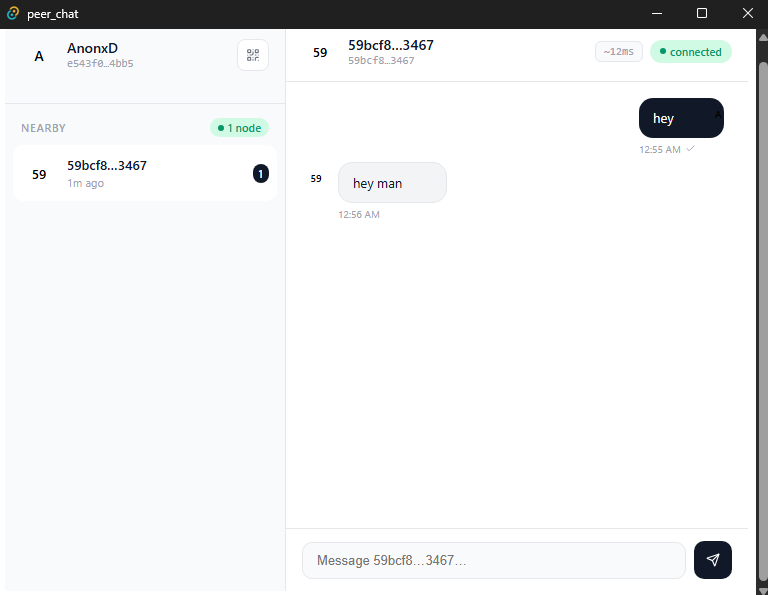
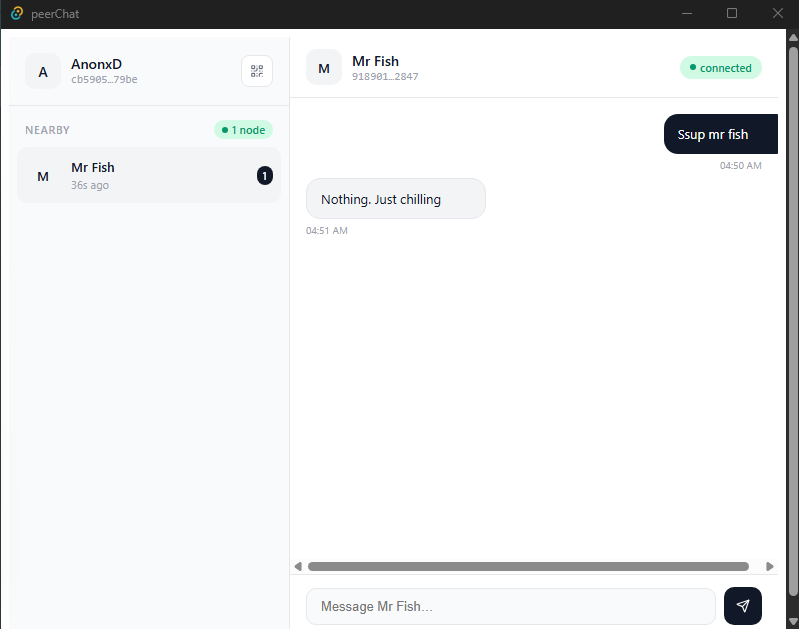
fix: update Dashboard component to use Node type for selectedNode and improve message handling

diff --git a/src/components/Dashboard.tsx b/src/components/Dashboard.tsx
@@ -2,14 +2,15 @@ import { useState, useRef, useEffect } from "react";
 import {
   Send,
   QrCode,
-  Check,
-  CheckCheck,
+  // Check,
+  // CheckCheck,
   Menu,
   ArrowLeft,
   X,
 } from "lucide-react";
 import { useP2P } from "../hooks/useP2P";
 import { QRModal } from "./QRModal";
+import { Node } from "../types";
 
 function formatSeen(seconds: number): {
   label: string;
@@ -41,7 +42,7 @@ function truncate(id: string) {
 export function Dashboard() {
   const { identity, nodes, messages, sendMessage, getNodeId } = useP2P();
 
-  const [selectedNode, setSelectedNode] = useState<string | null>(null);
+  const [selectedNode, setSelectedNode] = useState<Node | null>(null);
   const [messageInput, setMessageInput] = useState("");
   const [searchTerm] = useState("");
   const [showQR, setShowQR] = useState(false);
@@ -95,7 +96,7 @@ export function Dashboard() {
 
   const handleSend = async () => {
     if (!messageInput.trim() || !selectedNode) return;
-    await sendMessage(messageInput.trim(), selectedNode, nodeId);
+    await sendMessage(messageInput.trim(), selectedNode.endpoint_id, nodeId);
     setMessageInput("");
   };
 
@@ -112,14 +113,14 @@ export function Dashboard() {
 
   const chatMessages = messages.filter(
     (m) =>
-      (m.from === selectedNode && m.to === nodeId) ||
-      (m.to === selectedNode && m.from === nodeId),
+      (m.from === selectedNode?.endpoint_id && m.to === nodeId) ||
+      (m.to === selectedNode?.endpoint_id && m.from === nodeId),
   );
 
   const unreadCount = (nid: string) =>
-    messages.filter((m) => m.from === nid && !m.read).length;
+    messages.filter((m) => m.from === nid).length;
 
-  const selectedNodeData = nodes.find((n) => n.endpoint_id === selectedNode);
+  const selectedNodeData = nodes.find((n) => n.endpoint_id === selectedNode?.endpoint_id);
 
   if (isMobile && sidebarOpen) {
     return (
@@ -170,7 +171,7 @@ export function Dashboard() {
                 <div
                   key={node.endpoint_id}
                   onClick={() => {
-                    setSelectedNode(node.endpoint_id);
+                    setSelectedNode(node);
                     setSidebarOpen(false);
                   }}
                   style={{
@@ -258,12 +259,12 @@ export function Dashboard() {
               const unread = unreadCount(node.endpoint_id);
               const secs = seenSeconds[node.endpoint_id] ?? 0;
               const seen = formatSeen(secs);
-              const isActive = selectedNode === node.endpoint_id;
+              const isActive = selectedNode?.endpoint_id === node.endpoint_id;
 
               return (
                 <div
                   key={node.endpoint_id}
-                  onClick={() => setSelectedNode(node.endpoint_id)}
+                  onClick={() => setSelectedNode(node)}
                   style={{
                     ...s.nodeItem,
                     opacity: seen.stale ? 0.35 : 1,
@@ -315,14 +316,18 @@ export function Dashboard() {
                 )}
                 <div style={s.chatAv}>
                   {(
-                    selectedNodeData?.alias?.[0] ?? selectedNode.slice(0, 2)
+                    selectedNodeData?.alias?.[0] ??
+                    selectedNode?.endpoint_id.slice(0, 2)
                   ).toUpperCase()}
                 </div>
                 <div>
                   <div style={s.chatName}>
-                    {selectedNodeData?.alias ?? truncate(selectedNode)}
+                    {selectedNodeData?.alias ??
+                      truncate(selectedNode?.endpoint_id)}
                   </div>
-                  <div style={s.chatSub}>{truncate(selectedNode)}</div>
+                  <div style={s.chatSub}>
+                    {truncate(selectedNode?.endpoint_id)}
+                  </div>
                 </div>
               </div>
               <div style={{ display: "flex", alignItems: "center", gap: 7 }}>
@@ -355,15 +360,9 @@ export function Dashboard() {
                     key={i}
                     style={{
                       ...s.msgRow,
-                      flexDirection: isOwn ? "row-reverse" : "row",
+                      justifyContent: isOwn ? "flex-end" : "flex-start",
                     }}
                   >
-                    <div style={s.msgAv}>
-                      {isOwn
-                        ? (identity?.alias?.[0]?.toUpperCase() ?? "M")
-                        : (selectedNodeData?.alias?.[0]?.toUpperCase() ??
-                          selectedNode.slice(0, 2).toUpperCase())}
-                    </div>
                     <div style={{ maxWidth: isMobile ? "85%" : "70%" }}>
                       <div style={isOwn ? s.bubbleOwn : s.bubble}>
                         {msg.content}
@@ -378,12 +377,6 @@ export function Dashboard() {
                           hour: "2-digit",
                           minute: "2-digit",
                         })}
-                        {isOwn &&
-                          (msg.read ? (
-                            <CheckCheck size={11} />
-                          ) : (
-                            <Check size={11} />
-                          ))}
                       </div>
                     </div>
                   </div>
@@ -397,7 +390,7 @@ export function Dashboard() {
                 value={messageInput}
                 onChange={(e) => setMessageInput(e.target.value)}
                 onKeyDown={(e) => e.key === "Enter" && handleSend()}
-                placeholder={`Message ${selectedNodeData?.alias ?? truncate(selectedNode)}…`}
+                placeholder={`Message ${selectedNodeData?.alias ?? truncate(selectedNode?.endpoint_id)}…`}
                 style={s.msgInput}
               />
               <button onClick={handleSend} style={s.sendBtn}>
@@ -700,7 +693,6 @@ const s: Record<string, React.CSSProperties> = {
   },
   msgRow: {
     display: "flex",
-    gap: 8,
     marginBottom: 2,
   },
   msgAv: {

diff --git a/src/hooks/useP2P.ts b/src/hooks/useP2P.ts
@@ -10,14 +10,11 @@ export function useP2P() {
   const [nodes, setNodes] = useState<Node[]>([]);
   const [messages, setMessages] = useState<Message[]>([]);
 
-  // Load identity on mount
   useEffect(() => {
     const init = async () => {
       try {
         const saved = await invoke<Identity | null>("load_identity");
-        if (saved) {
-          setIdentity(saved);
-        }
+        if (saved) setIdentity(saved);
       } catch (e) {
         console.error("Failed to load identity:", e);
       } finally {
@@ -27,41 +24,20 @@ export function useP2P() {
     init();
   }, []);
 
-  // Setup listeners when identity exists
   useEffect(() => {
     if (!identity) return;
-    console.log("Identity loaded:", identity);
 
-    listen("message_received", (event) => {
-      console.log(
-        "🔔 MESSAGE RECEIVED EVENT FIRED:",
-        event.event,
-        event.payload,
-      );
-    });
-
-    // Listen for messages
     const unlistenMsg = listen<Message>("message_received", (e) => {
-      setMessages((prev) => {
-        const updated = [...prev, { ...e.payload }];
-        return updated;
-      });
+      setMessages((prev) => [...prev, e.payload]);
     });
 
-    // Listen for deep links
     const setupDeepLink = async () => {
       return await onOpenUrl(async (url) => {
         await connectToNode(url as any as string);
-
-        // if (url.startsWith("medic://connect/")) {
-        //   const nodeId = url.replace("medic-p2p://connect/", "");
-        //
-        // }
       });
     };
     const deepLinkPromise = setupDeepLink();
 
-    // Refresh nodes periodically
     refreshNodes();
     const interval = setInterval(refreshNodes, 5000);
 
@@ -81,6 +57,8 @@ export function useP2P() {
   const refreshNodes = async () => {
     try {
       const discovered = await invoke<Node[]>("get_nodes");
+      console.log("nodes:", discovered);
+
       setNodes(discovered);
     } catch (e) {
       console.error("Failed to get nodes:", e);
@@ -94,7 +72,9 @@ export function useP2P() {
   const sendMessage = async (content: string, to: string, from: string) => {
     try {
       await invoke<Message>("send_message", { content, to, from });
-    } catch (error) {}
+    } catch (e) {
+      console.error("Failed to send message:", e);
+    }
   };
 
   const getNodeId = (): string => {

diff --git a/src/types/index.ts b/src/types/index.ts
@@ -3,7 +3,6 @@ export interface Message {
   from: string;
   to: string;
   timestamp: number;
-  read?: boolean;
 }
 
 export interface Node {
